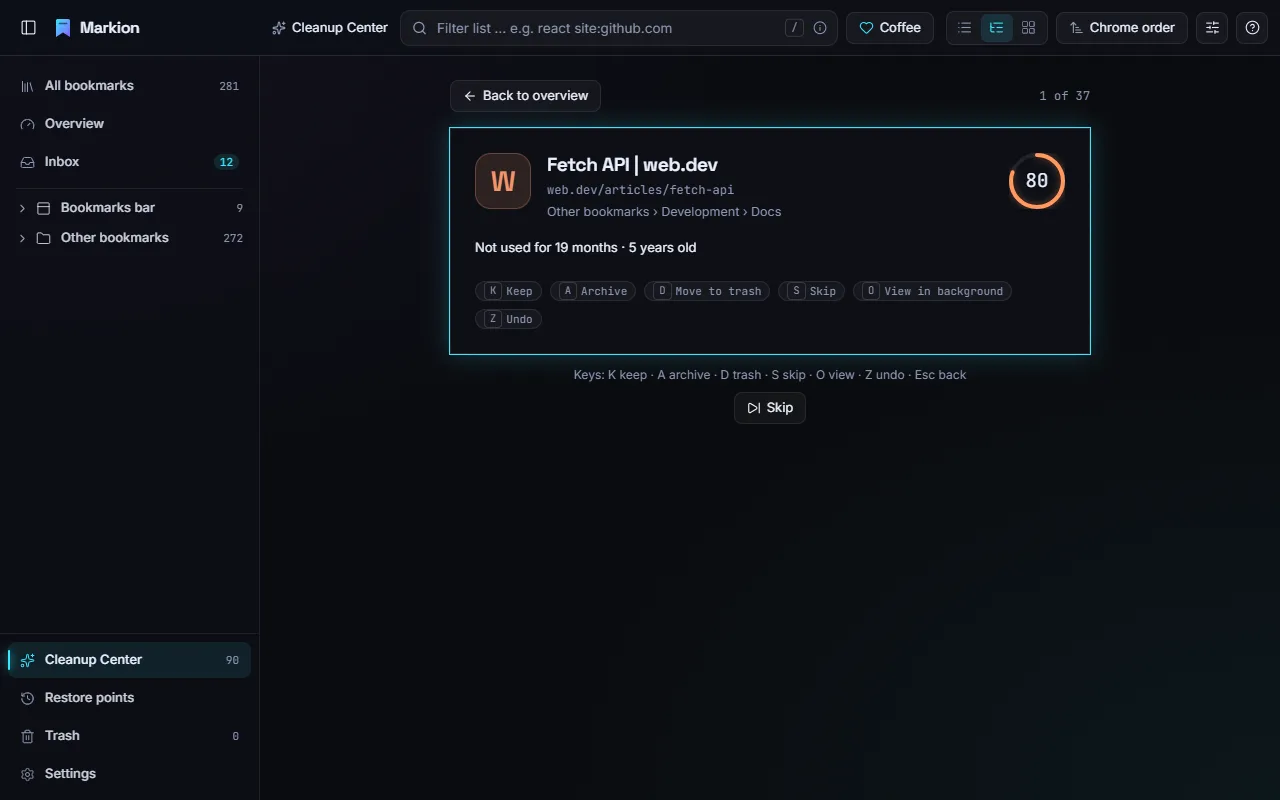
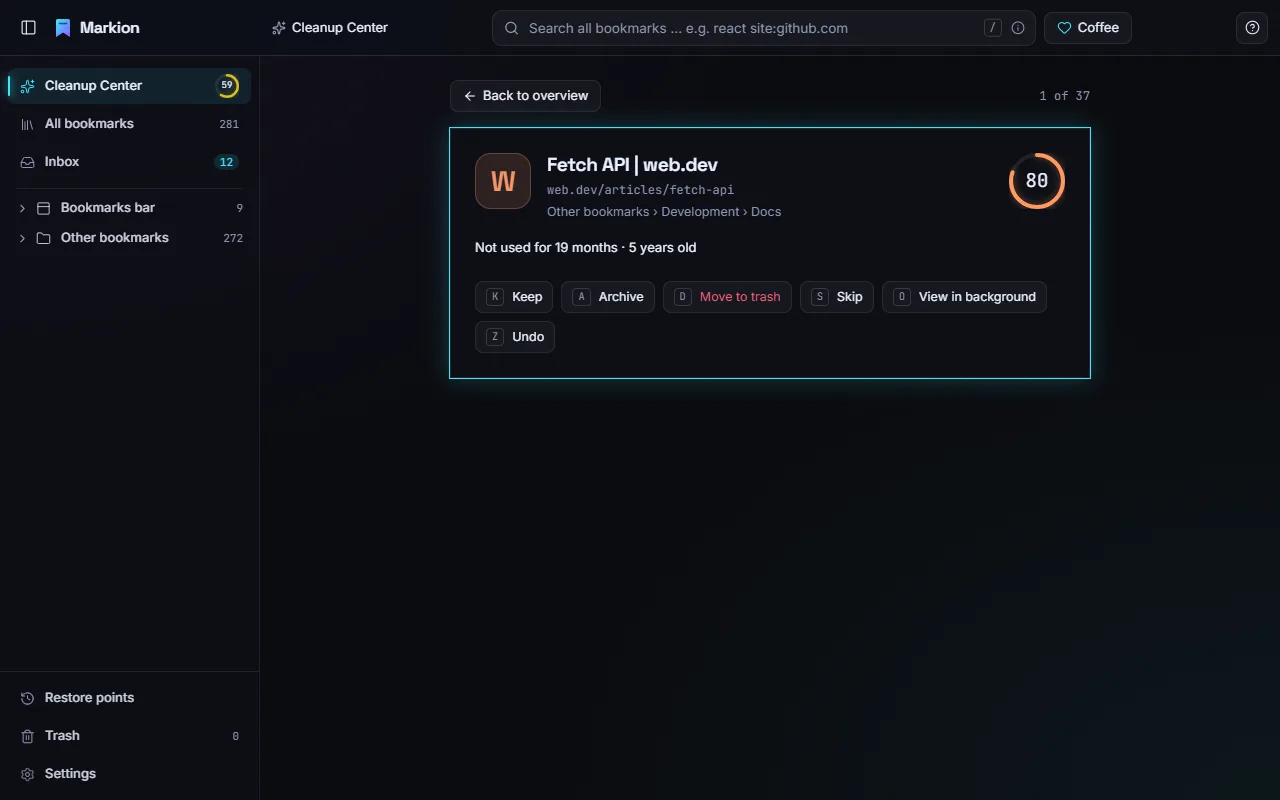
User guide 1.4.0: S5 usability changes and new images
Clickable review and sorting cards, context-dependent top bar, context
menu submenus, hints on icon buttons, settings order, link check tiles,
duplicate removable count; all guide images renewed.

diff --git a/help/index.html b/help/index.html
@@ -254,7 +254,6 @@
           <li><a href="#organize">Organizing</a></li>
           <li><a href="#inbox">Inbox and sorting assistant</a></li>
           <li><a href="#cleanup">Cleanup Center</a></li>
-          <li><a href="#overview">Overview</a></li>
           <li><a href="#safety">Safety net</a></li>
           <li><a href="#settings">Settings</a></li>
           <li><a href="#shortcuts">Keyboard shortcuts</a></li>
@@ -322,19 +321,26 @@
         <ul>
           <li>
             <strong>Top bar</strong>: the path of the current folder, the search field, the
-            <strong>Coffee</strong> button (see <a href="#faq">FAQ</a>), list, tree or card view,
-            sorting, view options (columns, density) and the <strong>?</strong> menu with this
-            guide, the introduction and the shortcut overview.
+            <strong>Coffee</strong> button (see <a href="#faq">FAQ</a>) and the
+            <strong>?</strong> menu with this guide, the introduction and the shortcut overview. On
+            pages with a list of bookmarks it also has list, tree or card view, sorting and view
+            options (columns, density).
           </li>
           <li>
-            <strong>Left sidebar</strong>: All bookmarks, Overview, Inbox, your folders, and at the
-            bottom the Cleanup Center, Archive, Restore points, Trash and Settings. Drag its edge to
-            change the width.
+            <strong>Hints</strong>: hover over an icon button, or reach it with <kbd>Tab</kbd>, to
+            see what a click does and its keyboard shortcut. Buttons with a clear label and the
+            small icons inside rows show no hint, so it never covers anything.
+          </li>
+          <li>
+            <strong>Left sidebar</strong>: Cleanup Center (with the order score), All bookmarks,
+            Inbox, your folders, and at the bottom Archive, Restore points, Trash and Settings. Drag
+            its edge to change the width.
           </li>
           <li>
             <strong>List, tree or cards</strong>: switch with <kbd>V</kbd>. Sort by title, domain,
-            date added, last use or staleness score; “Chrome order” keeps the order you see in
-            Chrome. Double-click a bookmark to open it in a new tab; Markion stays open.
+            date added, last use or staleness score; “Manual order” keeps the order you arranged in
+            Chrome. Double-click a bookmark to open it in a new tab; Markion stays open. Cards show
+            a small score ring only on bookmarks Markion would suggest for cleanup.
           </li>
           <li>
             <strong>Tree view</strong>: shows folders with their subfolders and bookmarks in the
@@ -373,10 +379,11 @@
         <h2 id="search">Finding bookmarks</h2>
         <h3>Filter the list</h3>
         <p>
-          Press <kbd>/</kbd> to jump into the search field at the top. The list filters as you type.
-          Search is tolerant of small typos and looks at titles, addresses and folder names. Press
-          <kbd>↓</kbd> to move into the results and <kbd>Enter</kbd> to open the first one.
-          <kbd>Esc</kbd> clears the search.
+          Press <kbd>/</kbd> to jump into the search field at the top. The list filters as you type;
+          on pages without a list (for example the Cleanup Center) typing takes you to All
+          bookmarks. Search is tolerant of small typos and looks at titles, addresses and folder
+          names. Press <kbd>↓</kbd> to move into the results and <kbd>Enter</kbd> to open the first
+          one. <kbd>Esc</kbd> clears the search.
         </p>
         <h3 id="search-syntax">Search syntax</h3>
         <p>
@@ -524,12 +531,14 @@
             <kbd>Alt</kbd>+<kbd>↑</kbd>/<kbd>↓</kbd> moves an item up or down within its folder.
           </li>
           <li>
-            Right-click (or <kbd>Shift</kbd>+<kbd>F10</kbd>) opens the context menu with every
-            action.
+            Right-click (or <kbd>Shift</kbd>+<kbd>F10</kbd>) opens the context menu. “Open in”,
+            “Copy” and “Clean up” open a submenu. Select all is <kbd>Ctrl</kbd>+<kbd>A</kbd>.
           </li>
           <li>
-            Hover over a bookmark or card to reveal two small icons: <strong>Archive</strong> and
-            <strong>Move to trash</strong>. They act on that one item only, with the usual undo.
+            Hover over a bookmark or card (or move to it with the keyboard) to reveal two small
+            icons at the right edge: <strong>Archive</strong> and <strong>Move to trash</strong>.
+            They act on that one item only, with the usual undo. For several selected items, use the
+            bar that appears at the bottom.
           </li>
           <li>
             Hover over a bookmark (row or card) to see its full address, or over the folder column
@@ -624,8 +633,10 @@
         </figure>
         <p>
           The <strong>sorting assistant</strong> (<kbd>G</kbd> then <kbd>S</kbd>) goes through the
-          inbox one card at a time and suggests matching folders. The suggestions are computed on
+          inbox one card at a time and suggests matching folders, best first, each with its main
+          reason (for example “10 more from example.com are here”). The suggestions are computed on
           your device from the domains and words in your existing folders and your recent choices.
+          Click a suggestion or a button on the card, or use the keys:
         </p>
         <table>
           <thead>
@@ -656,7 +667,7 @@
               <td>Later (skip for now)</td>
             </tr>
             <tr>
-              <td><kbd>K</kbd></td>
+              <td><kbd>H</kbd></td>
               <td>Stays here (it leaves the inbox where it is)</td>
             </tr>
             <tr>
@@ -682,9 +693,10 @@
 
         <h2 id="cleanup">Cleanup Center</h2>
         <p>
-          The Cleanup Center (<kbd>G</kbd> then <kbd>C</kbd>, or in the sidebar) finds bookmarks
-          that are worth a second look and explains why. Nothing is deleted without you: you decide
-          for each finding, and deleted items go to the trash.
+          The Cleanup Center (<kbd>G</kbd> then <kbd>C</kbd>, or at the top of the sidebar) finds
+          bookmarks that are worth a second look and explains why. Nothing is deleted without you:
+          you decide for each finding, and deleted items go to the trash. Its first tile,
+          <a href="#overview">Overview</a>, shows how tidy your collection is.
         </p>
         <figure>
           <img
@@ -746,8 +758,10 @@
         </table>
         <p>
           Hover over a category tile (or reach it with <kbd>Tab</kbd>) to see what its number
-          counts. Duplicates and similar addresses count <em>groups</em>, structure counts
-          <em>findings</em>; dead links and redirects need the optional link check.
+          counts. Duplicates and similar addresses count <em>groups</em> (duplicates also show how
+          many entries can go), structure counts <em>findings</em>; dead links and redirects need
+          the optional link check. The number of suggestions at the top counts each bookmark once,
+          even if it appears in several tiles; hover over it to see how it is made up.
         </p>
         <h3>The staleness score</h3>
         <p>
@@ -760,7 +774,7 @@
         <h3>Review</h3>
         <p>
           Press <kbd>Enter</kbd> on a finding (or click <strong>Start review</strong>) to go through
-          the findings one card at a time.
+          the findings one card at a time. Use the keys below or click the buttons on the card.
         </p>
         <figure>
           <img
@@ -810,7 +824,7 @@
             </tr>
             <tr>
               <td><kbd>Esc</kbd></td>
-              <td>Back to the overview</td>
+              <td>Back to the list of findings</td>
             </tr>
           </tbody>
         </table>
@@ -827,18 +841,23 @@
         <h3 id="link-check">Link check (optional)</h3>
         <p>
           The link check finds dead links and redirects. It is off until you turn it on in the
-          Cleanup Center or in Settings, and Chrome asks you for permission. It sends a short
-          request to each page, without cookies and without telling the page where the request came
-          from. A link counts as dead only after it failed on two different days; pages that ask for
-          a login, block the request or time out count as “unknown”, not dead.
+          Cleanup Center (tabs <strong>Dead links</strong> and <strong>Redirected</strong>) or in
+          Settings, and Chrome asks you for permission. Until then both tiles show “—, not checked”.
+          It sends a short request to each page, without cookies and without telling the page where
+          the request came from. A link counts as dead only after it failed on two different days;
+          pages that ask for a login, block the request or time out count as “unknown”, not dead.
         </p>
 
-        <h2 id="overview">Overview</h2>
+        <h3 id="overview">Overview</h3>
         <p>
-          The overview (<kbd>G</kbd> then <kbd>O</kbd>) shows the <strong>order score</strong>, a
-          number from 0 to 100 for how tidy your collection is, and tiles with key figures: total,
-          folders, never opened, stale, duplicates, inbox and dead links. Click a tile to go to it;
-          hover over a tile or the score to see what it means and how the score is calculated.
+          The first tile of the Cleanup Center, <strong>Overview</strong> (<kbd>G</kbd> then
+          <kbd>O</kbd>, or click the score at the top right), shows the
+          <strong>order score</strong>, a number from 0 to 100 for how tidy your collection is, and
+          the key figures total, folders and inbox. The findings themselves (never opened, unused,
+          duplicates, dead links and more) are the other tiles, so each number appears only once.
+          Hover over a tile or the score to see what it counts and how the score is calculated. The
+          “Never opened” tile counts only suggestions; its tooltip also gives the total of all
+          bookmarks never opened, which the search <code>is:never</code> shows.
         </p>
         <p>
           The <strong>domain explorer</strong> lists every domain with its number of bookmarks.
@@ -847,21 +866,21 @@
         </p>
         <p>
           After you jump from a tile or a domain to a list, a <strong>Back</strong> button appears
-          at the top left (“Back to Overview”). It also works with <kbd>Alt</kbd>+<kbd>←</kbd> and
-          the back button of your mouse. The same applies when you jump from the Cleanup Center to a
-          folder or the sorting assistant, from the detail panel to a folder, or from Settings to
-          the restore points. Going somewhere through the sidebar or a <kbd>G</kbd> shortcut starts
-          fresh.
+          at the top left (“Back to Cleanup Center”), and it returns to the Overview tab. It also
+          works with <kbd>Alt</kbd>+<kbd>←</kbd> and the back button of your mouse. The same applies
+          when you jump from the Cleanup Center to a folder or the sorting assistant, from the
+          detail panel to a folder, or from Settings to the restore points. Going somewhere through
+          the sidebar or a <kbd>G</kbd> shortcut starts fresh.
         </p>
         <figure>
           <img
             src="img/5-overview.webp"
-            alt="The overview with order score and domain explorer"
+            alt="The overview tab of the Cleanup Center with order score and domain explorer"
             loading="lazy"
             width="1280"
             height="800"
           />
-          <figcaption>The overview.</figcaption>
+          <figcaption>The overview in the Cleanup Center.</figcaption>
         </figure>
 
         <h2 id="safety">Safety net</h2>
@@ -929,16 +948,6 @@
         </p>
         <ul>
           <li>
-            <strong>Cleanup</strong>: when a bookmark counts as unused or old, from which score it
-            is suggested, how long “Keep” lasts, and the weights of the score. A preview shows how
-            many suggestions you get with the new values. <strong>Reset</strong> restores the
-            defaults.
-          </li>
-          <li>
-            <strong>Inbox, archive and trash</strong>: which folders act as inbox and archive, and
-            how many days deleted items stay in the trash.
-          </li>
-          <li>
             <strong>Theme</strong>: Dark Side (default), Snow Glow (light), Cyber Phunk or Miami
             Nights. The change applies right away.
           </li>
@@ -946,6 +955,17 @@
             <strong>Behavior and appearance</strong>: whether <kbd>Enter</kbd> opens a bookmark in
             the current or a new tab; the effect level (auto, full, reduced, off), and the shortcut
             that opens Markion.
+          </li>
+          <li>
+            <strong>Inbox, archive and trash</strong>: which folders act as inbox and archive, and
+            how many days deleted items stay in the trash.
+          </li>
+          <li>
+            <strong>Cleanup</strong>: when a bookmark counts as unused, from which score it is
+            suggested and how long “Keep” lasts. Under <strong>Advanced</strong>: when a bookmark
+            counts as old, when “never opened” applies, and the weights of the score. A preview
+            shows how many suggestions you get with the new values. <strong>Reset</strong> restores
+            the defaults.
           </li>
           <li>
             <strong>Privacy</strong>: use your history as a usage signal, and the link check. Both
@@ -985,7 +1005,8 @@
 
         <h2 id="shortcuts">Keyboard shortcuts</h2>
         <p>
-          Every action has a shortcut and an entry in the context menu. In Markion, press
+          Every action has a shortcut, and nearly every one has an entry in the context menu. In
+          Markion, press
           <kbd>?</kbd> (or choose <strong>?</strong> → <strong>Shortcuts</strong>) to see this list.
           “<kbd>G</kbd> then <kbd>C</kbd>” means: press <kbd>G</kbd>, release it, then press
           <kbd>C</kbd>. On a Mac, use <kbd>⌘</kbd> instead of <kbd>Ctrl</kbd>.
@@ -995,7 +1016,9 @@
           <tbody>
             <tr>
               <td><kbd>Alt</kbd>+<kbd>←</kbd></td>
-              <td>Back, after a jump from the Overview, Cleanup Center or detail panel</td>
+              <td>
+                Back, after a jump from the Cleanup Center (also its Overview) or the detail panel
+              </td>
             </tr>
             <tr>
               <td><kbd>G</kbd> then <kbd>A</kbd></td>
@@ -1003,7 +1026,7 @@
             </tr>
             <tr>
               <td><kbd>G</kbd> then <kbd>O</kbd></td>
-              <td>Overview</td>
+              <td>Cleanup Center overview</td>
             </tr>
             <tr>
               <td><kbd>G</kbd> then <kbd>I</kbd></td>
@@ -1252,7 +1275,8 @@
         <h3>Does Markion sync across devices?</h3>
         <p>
           Your bookmarks sync through Chrome as usual. Markion’s own data, such as pins, “keep”
-          decisions, the trash and restore points, stays on each device.
+          decisions, the trash and restore points, stays on each device. To take it to another
+          computer, use <a href="#backup">Export everything and Import backup</a>.
         </p>
         <h3>What is the Coffee button?</h3>
         <p>
